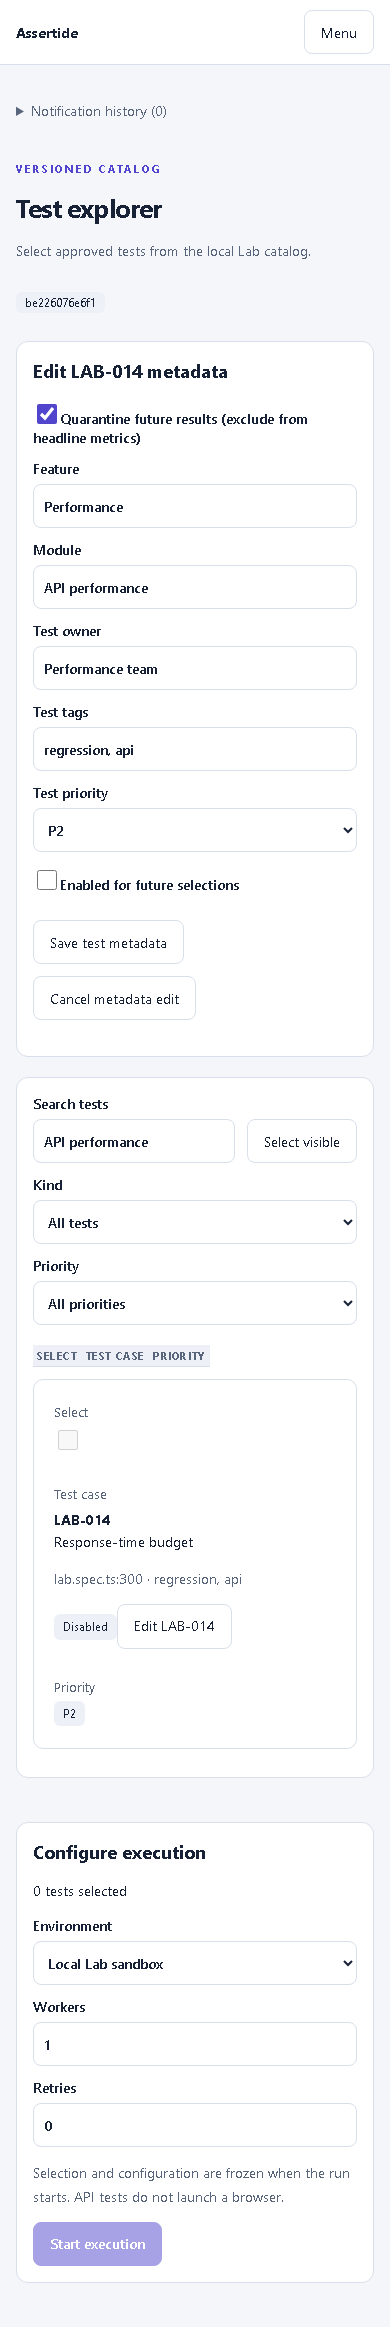
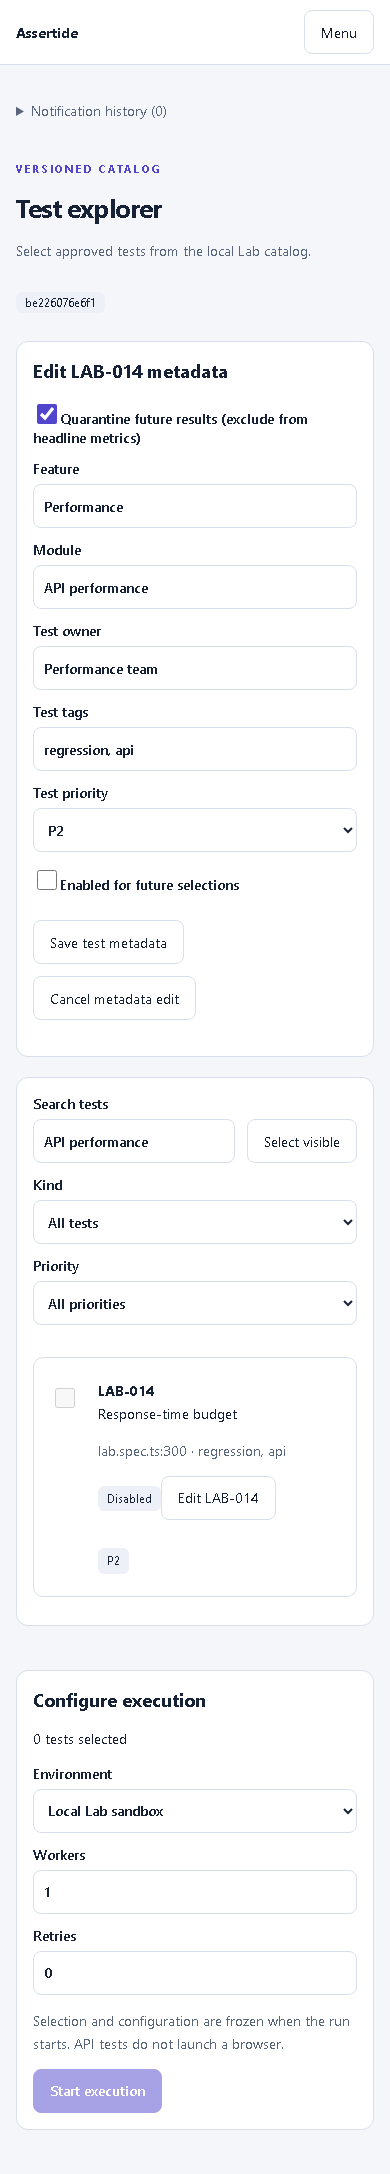
fix(a11y): provide full touch targets for catalog selection

diff --git a/apps/web/src/app/pages/explorer.ts b/apps/web/src/app/pages/explorer.ts
@@ -97,13 +97,15 @@ import { LoadingState } from '../core/loading-state';
                 @for (test of filtered(); track test.id) {
                   <tr>
                     <td data-label="Select">
-                      <input
-                        type="checkbox"
-                        [checked]="selected().includes(test.id)"
-                        [disabled]="!test.enabled"
-                        (change)="toggle(test.id)"
-                        [attr.aria-label]="'Select ' + test.id"
-                      />
+                      <label class="case-selection">
+                        <input
+                          type="checkbox"
+                          [checked]="selected().includes(test.id)"
+                          [disabled]="!test.enabled"
+                          (change)="toggle(test.id)"
+                          [attr.aria-label]="'Select ' + test.id"
+                        />
+                      </label>
                     </td>
                     <td data-label="Test case">
                       <strong>{{ test.id }}</strong

diff --git a/apps/web/src/styles.css b/apps/web/src/styles.css
@@ -98,6 +98,13 @@ input[type='checkbox'] {
   height: 20px;
   accent-color: var(--brand);
 }
+.case-selection {
+  display: grid;
+  place-items: center;
+  width: 44px;
+  min-height: 44px;
+  cursor: pointer;
+}
 label {
   display: block;
   font-weight: 600;
